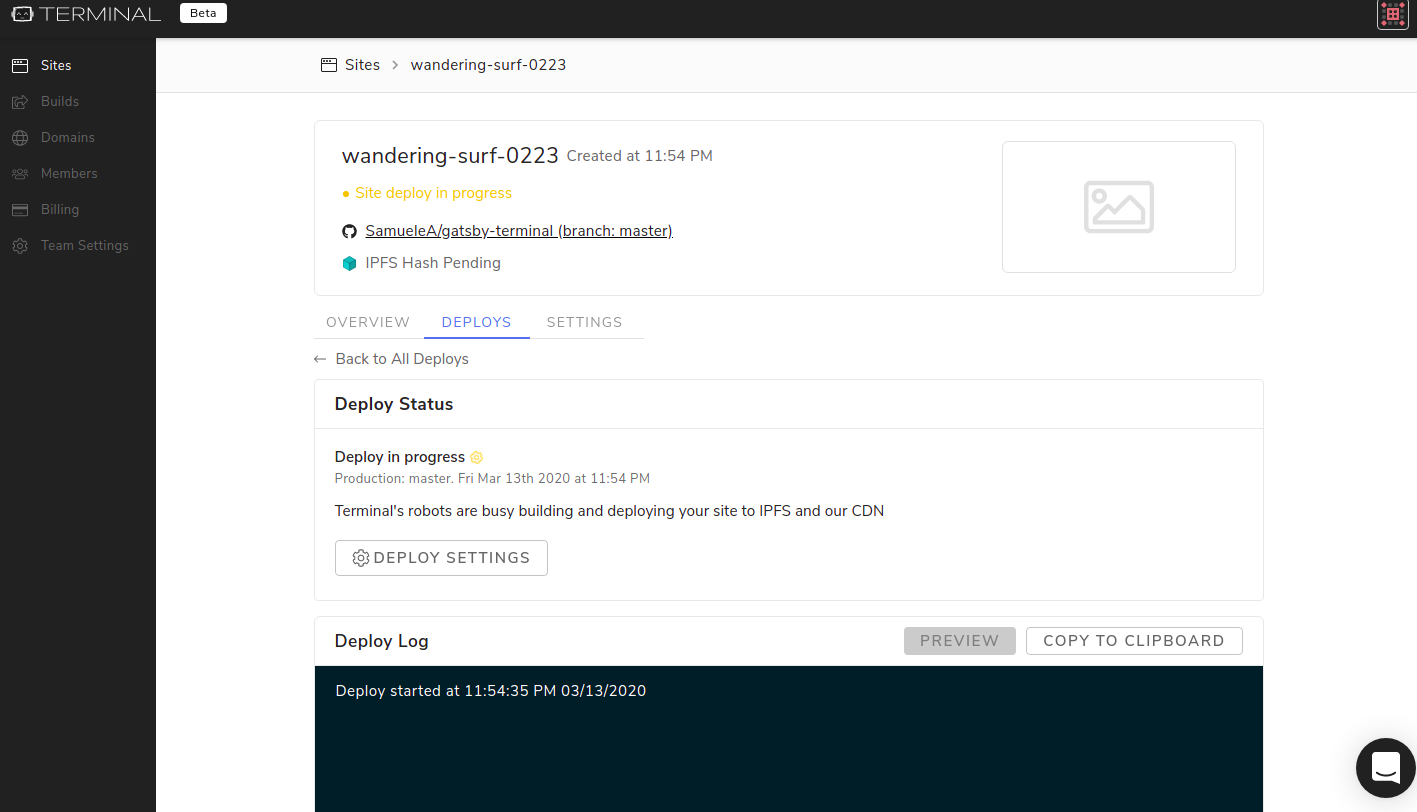
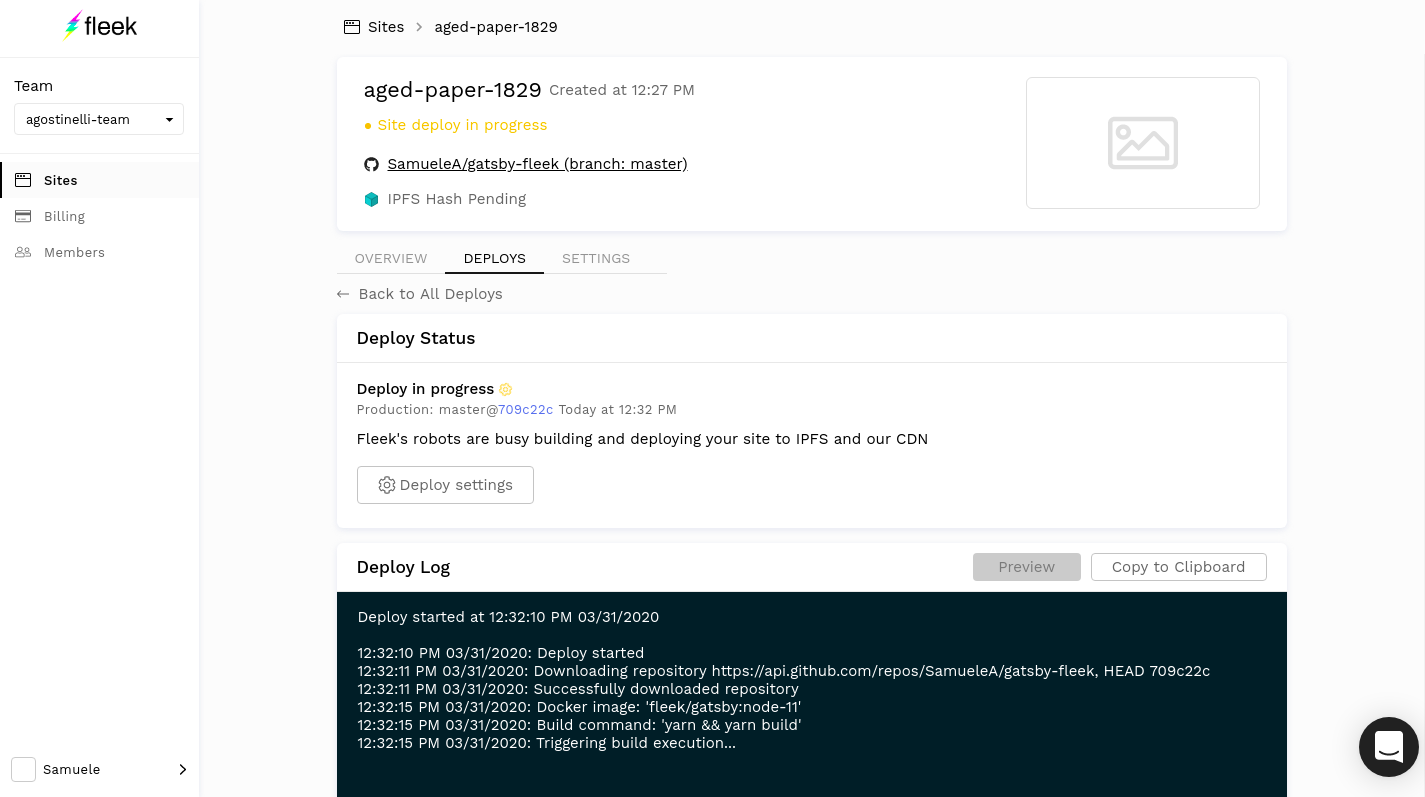
gatsby update

diff --git a/content/posts/2020-03-19-how-to-deploy-a-gatsbyjs-site-onto-ipfs-with-terminal.md b/content/posts/2020-03-19-how-to-deploy-a-gatsbyjs-site-onto-ipfs-with-terminal.md
@@ -1,7 +1,7 @@
 ---
 template: post
 title: How to Deploy a GatsbyJS site onto IPFS on Fleek
-slug: Gatsby-Terminal
+slug: Gatsby-Fleek
 draft: false
 date: 2020-03-19T04:02:37.816Z
 description: >-
@@ -39,7 +39,7 @@ Beautiful!
 
 ## Deploying Through Fleek
 
-We must create a github repository to store our site so Fleek can pick it up. For this tutorial, we will use the following repo:  https://github.com/SamueleA/gatsby-Fleek
+We must create a github repository to store our site so Fleek can pick it up. For this tutorial, we will use the following repo:  https://github.com/SamueleA/gatsby-fleek
 
 Now, we must log to Fleek and add a new site.
 
@@ -49,7 +49,9 @@ We select the github repo containing the Gatsby project.
 
 ![](/media/gatsby3.png)
 
-Fleek will determine what build to use, so we can use the default ones, just make sure to select the correct branch. Click on “DEPLOY SITE” to proceed to the next step.
+Fleek will determine which build settings to use. It has automatically detected the Gatsby framework and filled the docker image with `fleek/gatsby`. This image has Gatsby installed with the latest node.js version. However, my gatsby app requires node 11, therefore I changed the docker image to `fleek/gatsby:node-11`.
+
+Click on “DEPLOY SITE” to proceed to the next step.
 
 ![](/media/gatsby4.png)
 
@@ -57,7 +59,7 @@ You will be redirected to the site’s page. We must now wait for the site to be
 
 ![](/media/gatsby5.png)
 
-Once the deployment is over the site can be accessed and shared. For this tutorial, the site can be seen here: <https://wandering-surf-0223.tmnl.co/>
+Once the deployment is over the site can be accessed and shared. For this tutorial, the site can be seen here: <https://aged-paper-1829.on.fleek.co/>
 
 ![](/media/gatsby6.png)
 
@@ -73,4 +75,4 @@ Once you are done, come back to Fleek to share your work!
 
 * [Gatsby video tutorial](https://www.youtube.com/watch?v=8t0vNu2fCCM)
 * [Gatsby docs](https://www.gatsbyjs.org/docs/)
-* [Fleek docs](https://docs.Fleek.co/)
+* [Fleek docs](https://docs.fleek.co/)
